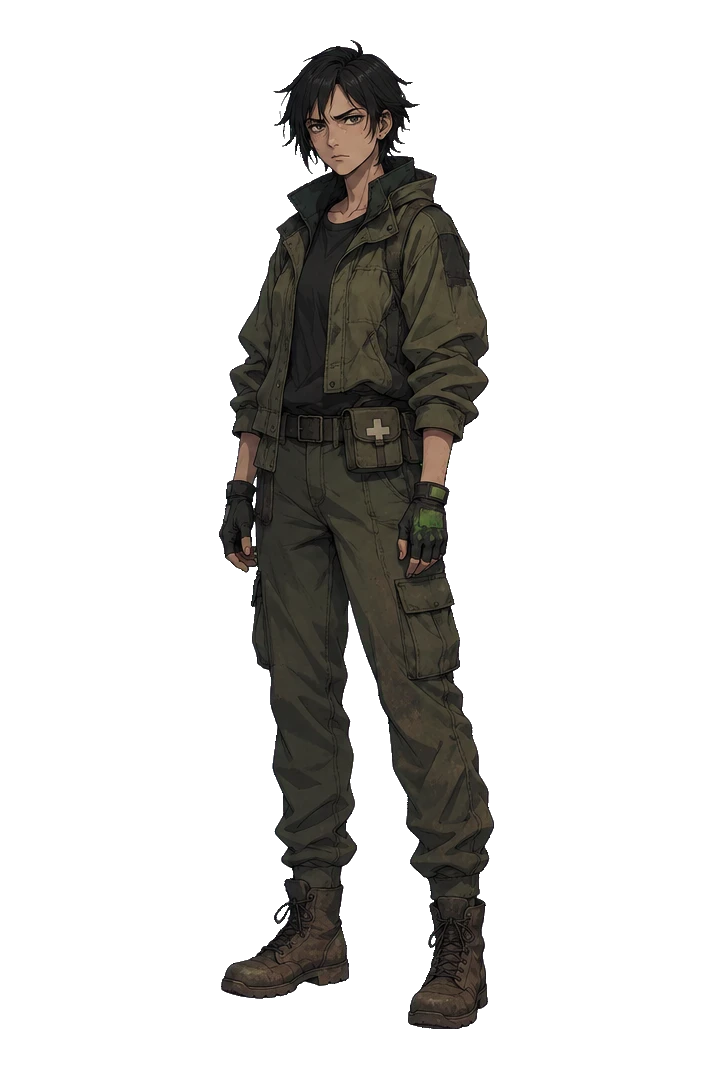
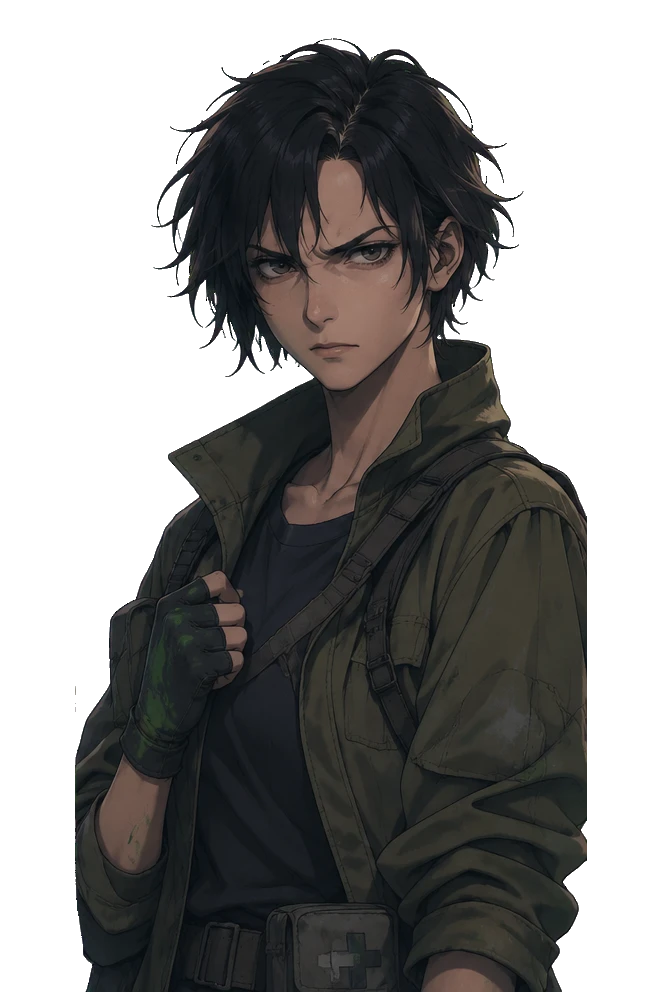
Inès en buste : ses trois expressions refaites depuis une planche en buste sur fond vert (WebP transparent, 60 Ko par image, mêmes codes) ; Dussault et Kaël restent à refaire

diff --git a/scenarios/Le Dernier Rang/images.md b/scenarios/Le Dernier Rang/images.md
@@ -44,7 +44,7 @@ wide horizontal format 3:2.
 
 Négatif en plus : `background scenery, ground, cast shadow, cropped head, full body, legs, different outfits, different characters, overlapping figures, green rim light, green reflections on the character, captions, labels, grid lines, panels`
 
-Inès, Dussault et Kaël ont leurs trois expressions (planches du 15 novembre 2026).
+Inès a ses trois expressions en buste (planche du 15 novembre 2026). Dussault et Kaël sont encore en pied : planches à refaire en buste.
 
 ## Décors (16/9, sans personnage, tiers droit dégagé)
 
